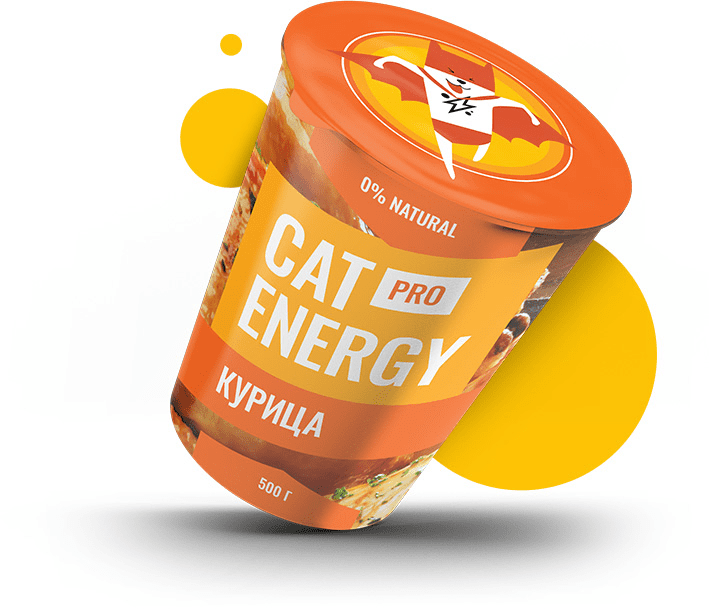
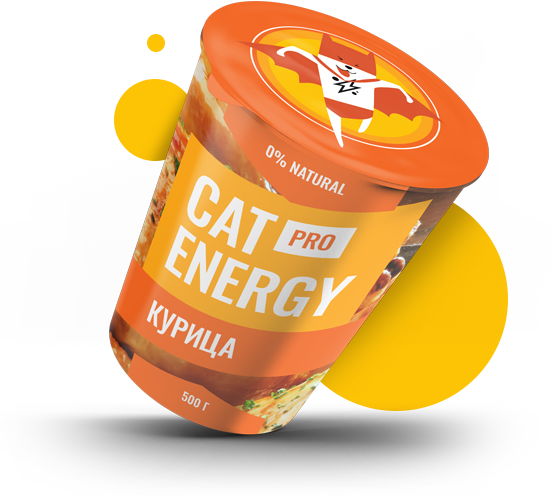
Завершает предварительную стилизацию верхней части index

Changed region(s): [[0.154, 0.0, 0.9547, 0.9018], [0.8623, 0.7214, 0.8931, 0.7515], [0.8315, 0.7515, 0.8623, 0.7816]]

diff --git a/source/less/blocks/main-title.less b/source/less/blocks/main-title.less
@@ -1,9 +1,8 @@
 .main-title {
-  position: relative;
   flex-direction: column;
   align-items: center;
 
-  padding: 27px 20px 0 20px;
+  // padding: 27px 20px 0 20px;
 
   color: #ffffff;
 
@@ -16,33 +15,46 @@
   @media (min-width: @tablet-width) {
     display: block;
 
-    margin: 0 30px;
-    padding: 0;
+    // margin: 0 30px;
+    padding: 62px 0 0 0;
 
     background-image: none;
     background-color: #ffffff;
   }
 
   @media (min-width: @desktop-width) {
-    padding: 0 0 0 80px;
-    padding-right: auto;
+    padding: 115px 0 0 80px;
+  }
+}
+
+.main-title__wrapper {
+  position: relative;
+  padding: 27px 20px 0 20px;
+
+  @media (min-width: @tablet-width) {
+    padding: 0;
+    margin: 0 30px;
+  }
+
+  @media (min-width: @desktop-width) {
+    padding: 0;
     margin: 0 110px;
-    background-color: transparent;
   }
 }
 
 .main-title__title {
-  width: 450px;
   padding: 0;
   margin: 0;
   margin-bottom: 25px;
 
   @media (min-width: @tablet-width) {
+    width: 450px;
     padding-left: 87px;
     margin-bottom: 41px;
   }
 
   @media (min-width: @desktop-width) {
+    padding-left: 0;
     margin-bottom: 39px;
   }
 }
@@ -66,6 +78,11 @@
     line-height: 20px;
     color: #000000;
     text-align: left;
+  }
+
+  @media (min-width: @desktop-width) {
+    padding-left: 0;
+    margin-bottom: 52px;
   }
 }
 
@@ -94,7 +111,13 @@
   }
 
   @media (min-width: @desktop-width) {
-    display: none;
+
+    position: absolute;
+    z-index: 3;
+    top: -81px;
+    left: 368px;
+    width: 552px;
+    height: 499px;
   }
 }
 
@@ -106,11 +129,12 @@
   @media (min-width: @tablet-width) {
     position: absolute;
     top: 240px;
-    left: 88px;
+    left: 87px;
     margin-bottom: 0;
   }
 
   @media (min-width: @desktop-width) {
-    top: 230px;
+    position: static;
+    margin-bottom: 265px;
   }
 }

diff --git a/source/index.html b/source/index.html
@@ -35,14 +35,16 @@
   </header>
   <main class="main-container">
     <div class="main-title">
-      <h1 class="main-title__title base-title base-title--index-header-mobile">Функциональное питание для
-        котов</h1>
-      <p class="main-title__slogan">Занялся собой? Займись котом!</p>
-      <img class="main-title__image" src="img/index/title-image-mobile.png" alt="Изображение баночки Cat energy."
-        width="280" height="270">
-      <img class="main-title__image-tablet" src="img/index/title-image-tablet.png" alt="Изображение баночки Cat energy."
-        width="709" height="609">
-      <a class="main-title__link button--index button" href="form.html">Подобрать программу</a>
+      <div class="main-title__wrapper">
+        <h1 class="main-title__title base-title base-title--index-header-mobile">Функциональное питание для
+          котов</h1>
+        <p class="main-title__slogan">Занялся собой? Займись котом!</p>
+        <img class="main-title__image" src="img/index/title-image-mobile.png" alt="Изображение баночки Cat energy."
+          width="280" height="270">
+        <img class="main-title__image-tablet" src="img/index/title-image-tablet.png"
+          alt="Изображение баночки Cat energy." width="709" height="609">
+        <a class="main-title__link button--index button" href="form.html">Подобрать программу</a>
+      </div>
     </div>
 
     <section class="programs">

diff --git a/source/less/blocks/main-header.less b/source/less/blocks/main-header.less
@@ -1,4 +1,6 @@
 .main-header {
+  position: relative;
+  z-index: 2;
   margin: 10px 20px 0 20px;
 
   @media (min-width: @tablet-width) {
@@ -6,16 +8,17 @@
     justify-content: space-between;
     align-items: center;
 
-    margin: 24px 30px 62px 30px;
+    margin: 24px 30px 0 30px;
   }
 
   @media (min-width: @desktop-width) {
     width: 1200px;
     margin: 0 auto;
     margin-top: 63px;
-    margin-bottom: 115px;
+    margin-bottom: 0;
   }
 }
+
 
 .main-header__logo {
   text-decoration: none;

diff --git a/source/less/blocks/page.less b/source/less/blocks/page.less
@@ -24,9 +24,10 @@
   @media (min-width: @desktop-width) {
     content: "";
     position: absolute;
+    z-index: 1;
     top: 0;
-    right: 0;
-    width: 50%;
+    left: 50%;
+    width: 720px;
     height: 694px;
     background-image: url("../img/index/index-background-image-desktop.jpg");
     background-repeat: no-repeat;
